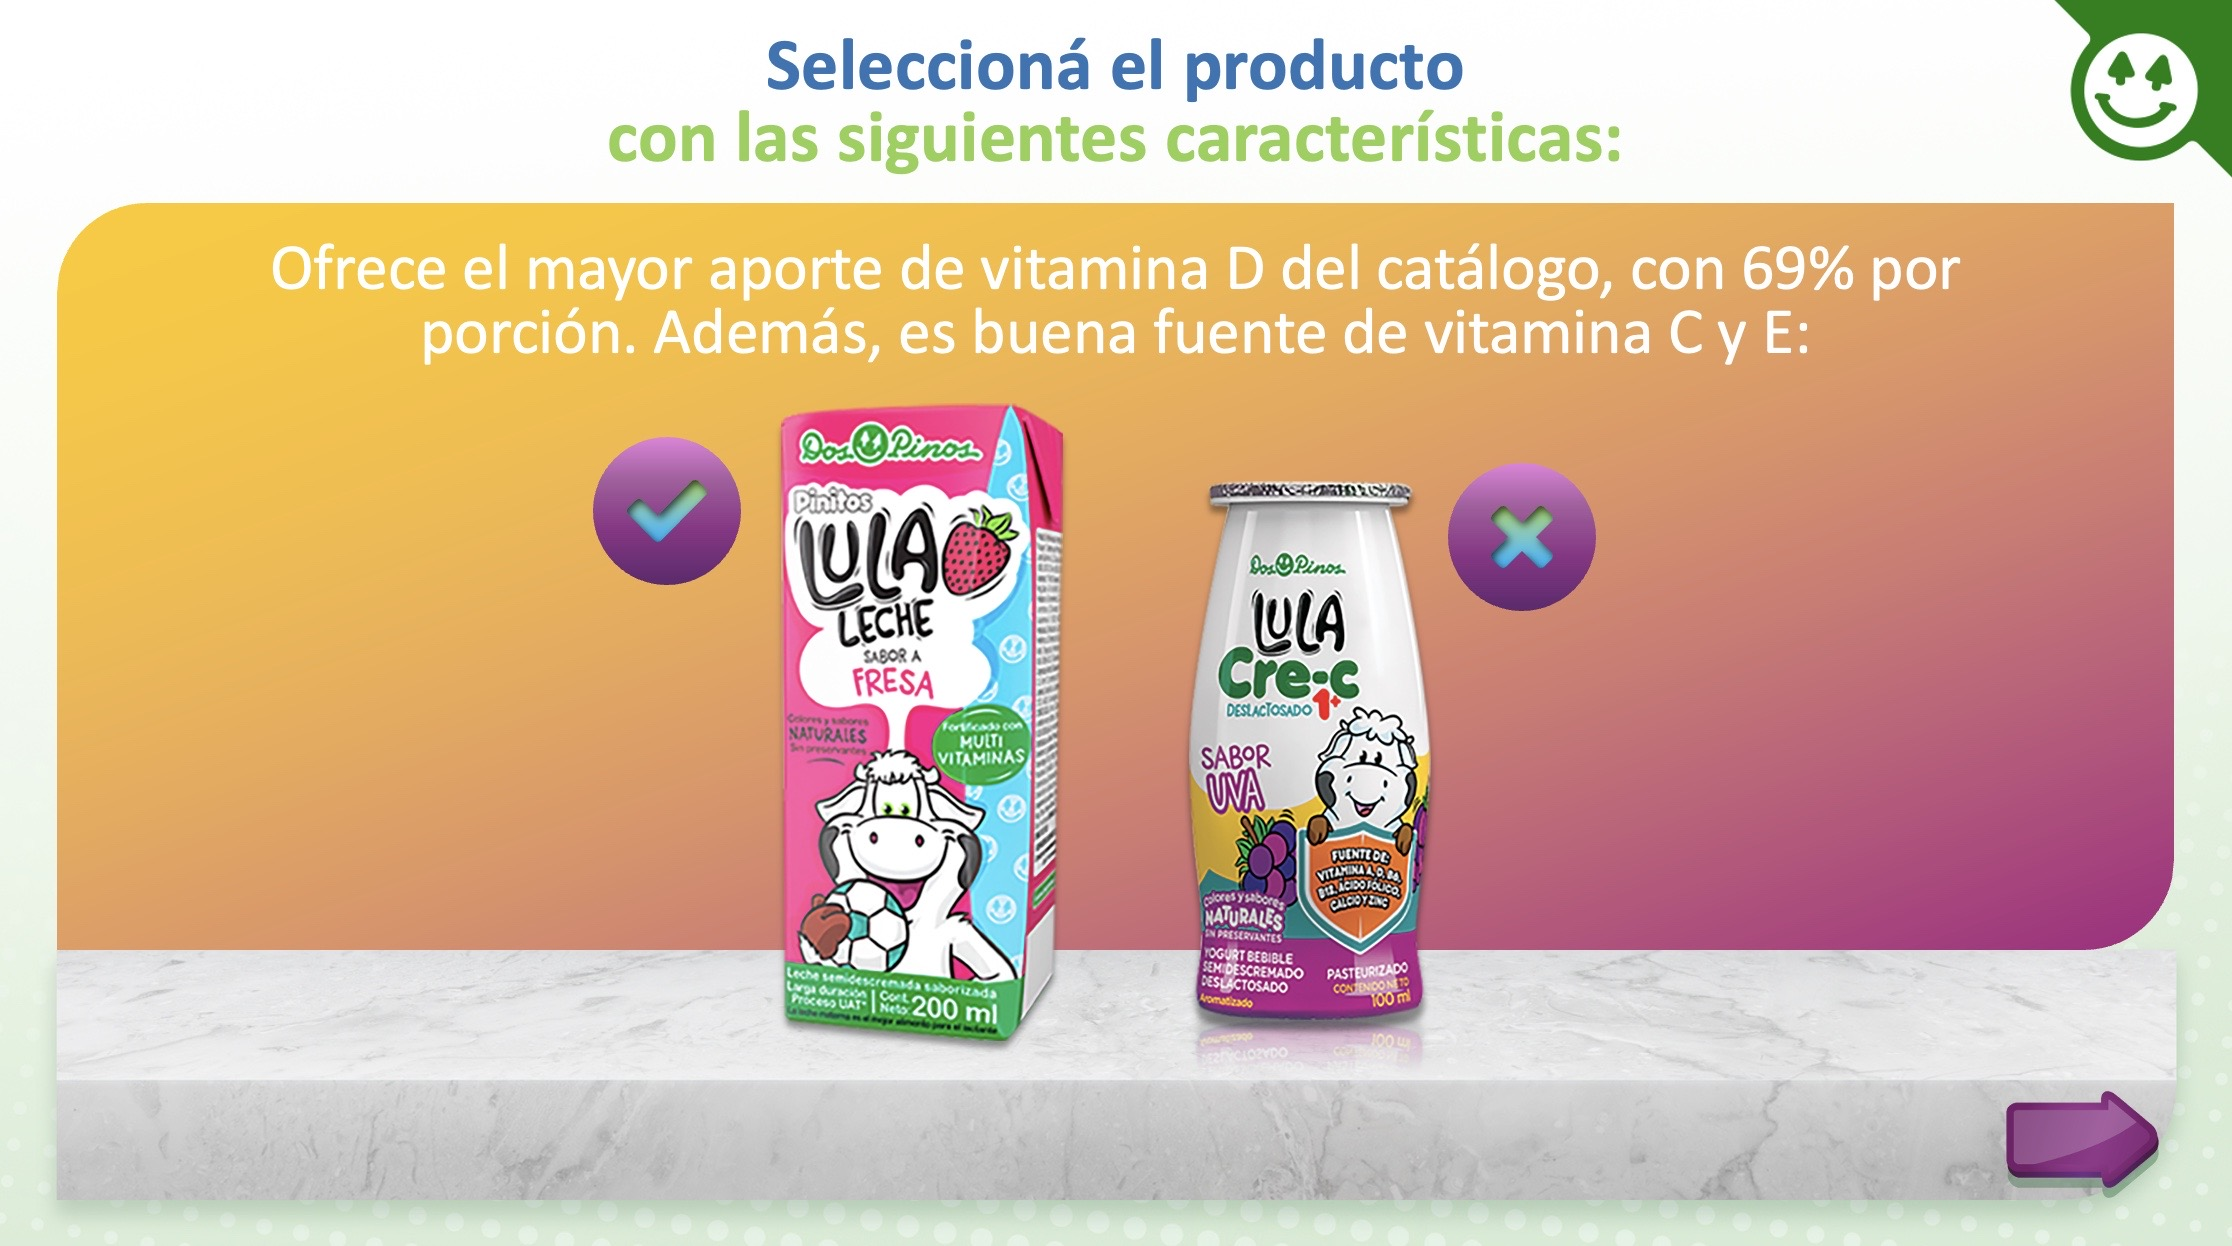
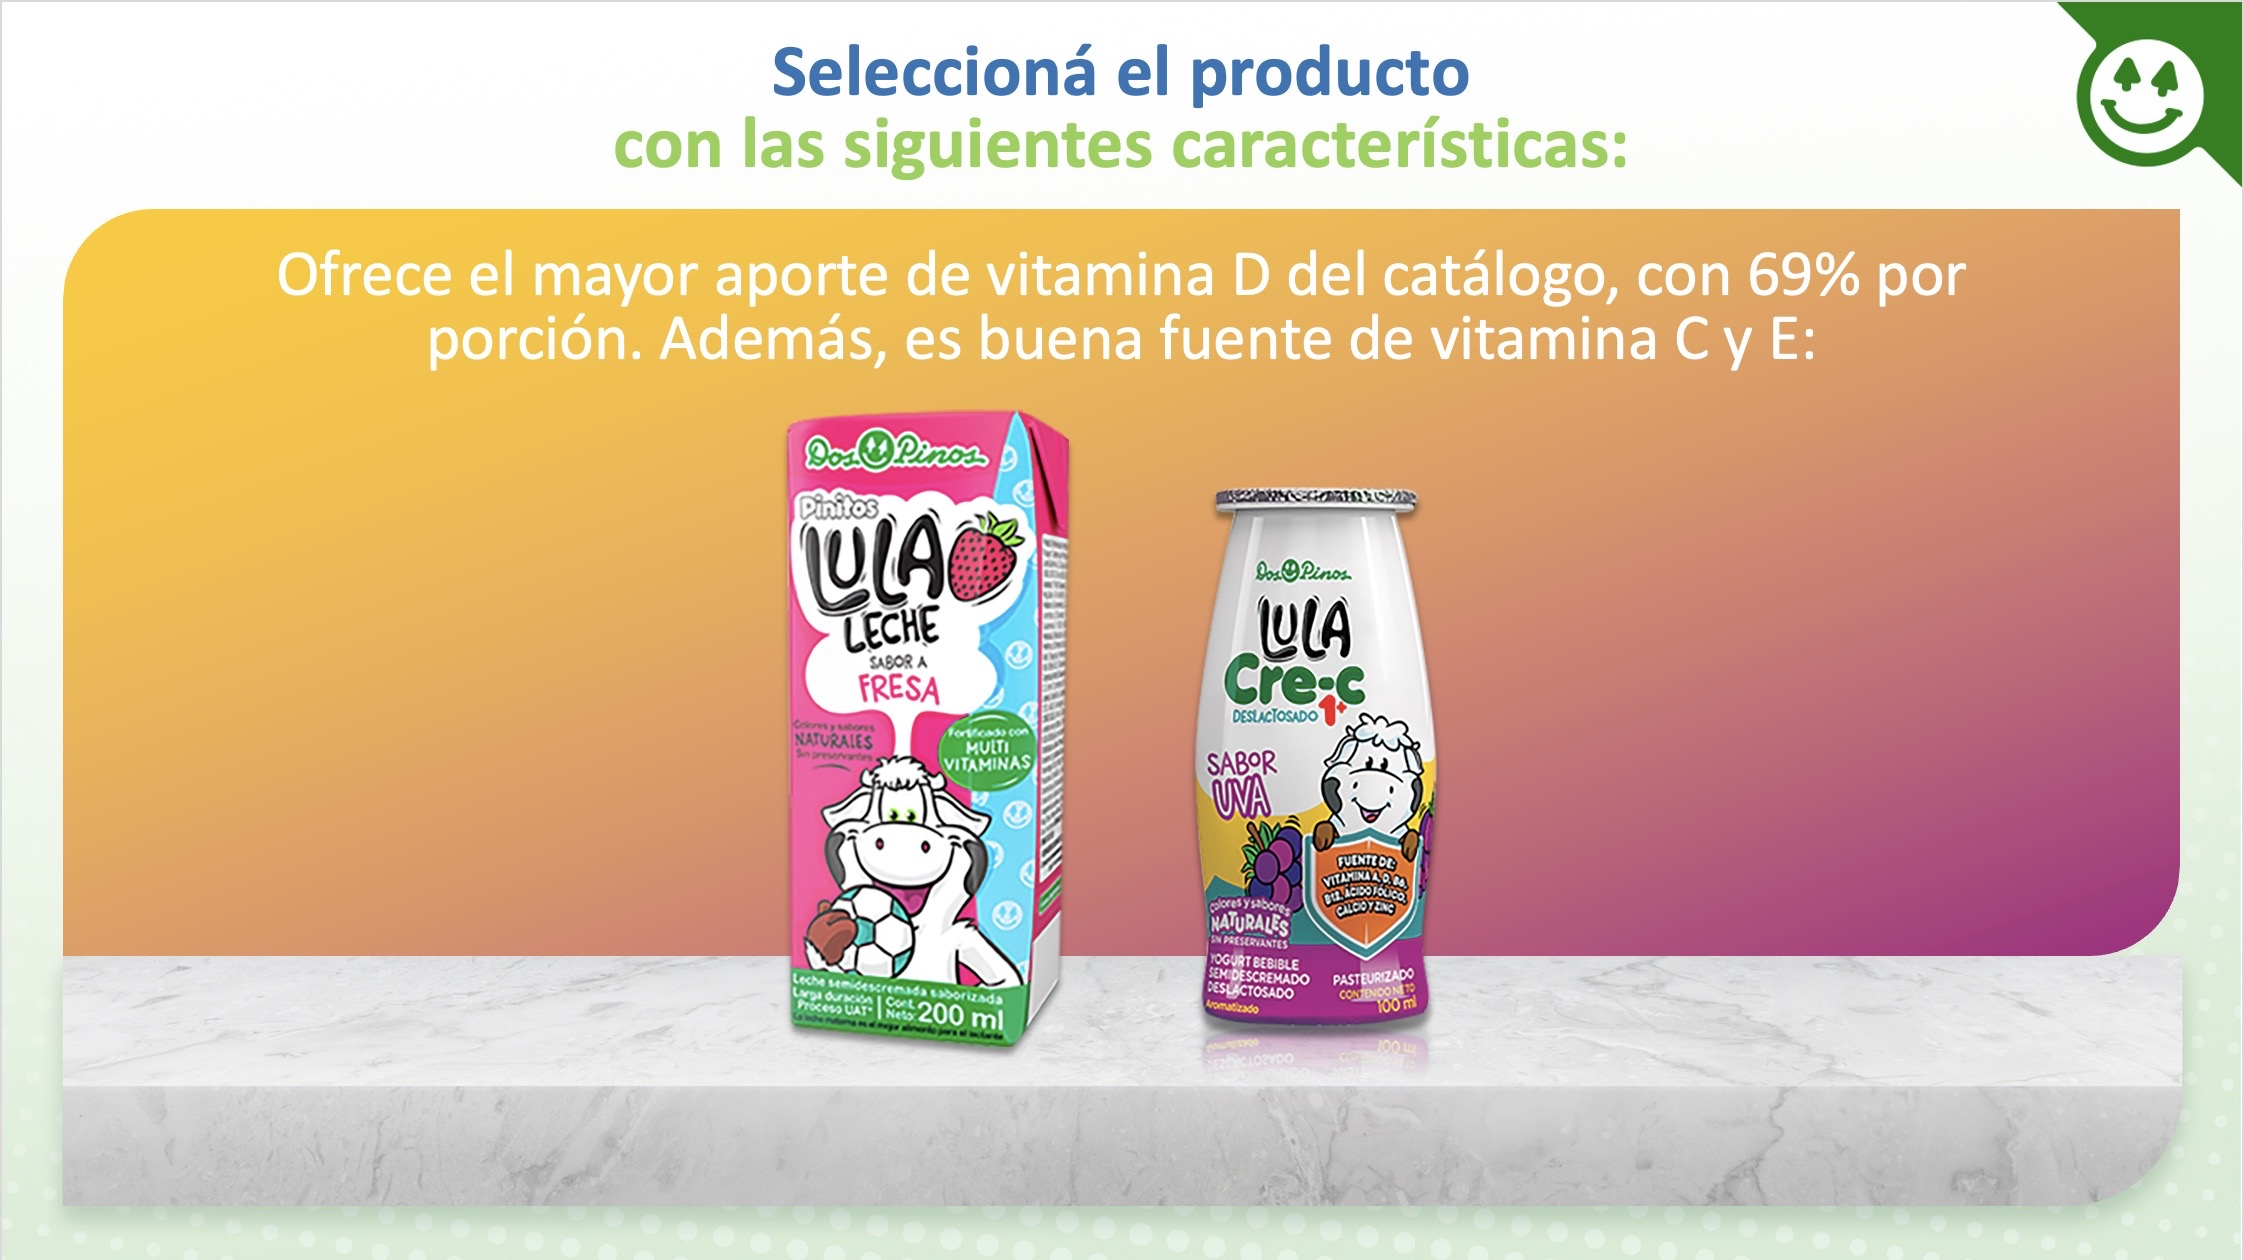
modificaciones a los botones, ya quedan establecidos

diff --git a/css/style.css b/css/style.css
@@ -149,36 +149,91 @@ body.nosotros {
         position: relative;
     }
 
-    .btn-center {
+    .btn-primera {
+        background-image: url(../img\ /layer.png);
+        background-size: cover;
+        background-position: center;
         margin: 0;
         font-family: inherit;
         font-size: inherit;
         line-height: inherit;
-        width: 120px;
-        height: 120px;
         border: none;
         position: absolute;
-        top: 50%;
-        left: 50%;
+        width: 157.5px;
+        height: 350px;
+        top: 58%;
+        left: 42.5%;
         transform: translate(-50%, -50%);
         z-index: 999;
-        border-radius: 50%;
-        background-color: green;
+        border-radius: 10%;
+        display: inline-block;
+        border: none;
+        padding: 0;
+        cursor: pointer;
+        overflow: hidden;
+        transition: transform 0.3s ease; /* Transición suave */
+    }
+    
+    .btn-primera:hover {
+        transform: translate(-50%, -50%) scale(1.1); /* Escalar pero mantener la posición */
+        z-index: 2;
+        box-shadow: 0 0 20px rgb(0, 105, 0); /* Brillo verde sólido */
+        background-color: rgb(89, 193, 89);
+    }
+    .btn-primera-extra {
+        background-image: url(../img\ /yogurt.png);
+        background-size: cover;
+        background-position: center;
+        margin: 0;
+        font-family: inherit;
+        font-size: inherit;
+        line-height: inherit;
+        border: none;
+        position: absolute;
+        width: 130px;
+        height: 300px;
+        top: 60.5%;
+        left: 57.5%;
+        transform: translate(-50%, -50%);
+        z-index: 999;
+        border-radius: 10%;
+        display: inline-block;
+        border: none;
+        padding: 0;
+        cursor: pointer;
+        overflow: hidden;
+        transition: transform 0.3s ease; /* Transición suave */
+    }
+    
+    .btn-primera-extra:hover {
+        transform: translate(-50%, -50%) scale(1.1); /* Escalar pero mantener la posición */
+        z-index: 2;
+        box-shadow: 0 0 20px rgb(255, 0, 0); /* Brillo rojo sólido */
+        background-color: rgb(240, 44, 44);
+    }
+    button{
+        background-color: transparent;
     }
 }
 
 /* Sobrescritura de estilos de reboot.scss */
-button, input, optgroup, select, textarea {
+button,
+input,
+optgroup,
+select,
+textarea {
     margin: 0;
     font-family: inherit;
     font-size: inherit;
     line-height: inherit;
     /* Tus modificaciones aquí */
-    background-color: #f8f9fa; /* Ejemplo de sobrescritura */
+    background-color: #f8f9fa;
+    /* Ejemplo de sobrescritura */
 }
 
 
-html,body.juegos {
+html,
+body.juegos {
     body.juegos {
         img {
             width: 400px;

diff --git a/pages/porque.html b/pages/porque.html
@@ -53,22 +53,28 @@
         <div class="carousel-inner">
             <div class="carousel-item active">
                 <img src="../img /primera.jpg" class="d-block w-100" alt="...">
-                <button class="btn-center">.</button>
+                <button class="btn-center btn-primera">.</button>
+                <button class="btn-center btn-primera-extra">.</button>
             </div>
             <div class="carousel-item">
                 <img src="../img /segunda.jpg" class="d-block w-100" alt="...">
+                <button class="btn-center btn-segunda">.</button>
             </div>
             <div class="carousel-item">
                 <img src="../img /tercera.jpg" class="d-block w-100" alt="...">
+                <button class="btn-center btn-tercera">.</button>
             </div>
             <div class="carousel-item">
                 <img src="../img /cuarta.jpg" class="d-block w-100" alt="...">
+                <button class="btn-center btn-cuarta">.</button>
             </div>
             <div class="carousel-item">
                 <img src="../img /quinta.jpg" class="d-block w-100" alt="...">
+                <button class="btn-center btn-quinta">.</button>
             </div>
             <div class="carousel-item">
                 <img src="../img /sexta.jpg" class="d-block w-100" alt="...">
+                <button class="btn-center btn-sexta">.</button>
             </div>
         </div>
         <button class="carousel-control-prev" type="button" data-bs-target="#carouselExampleFade"
